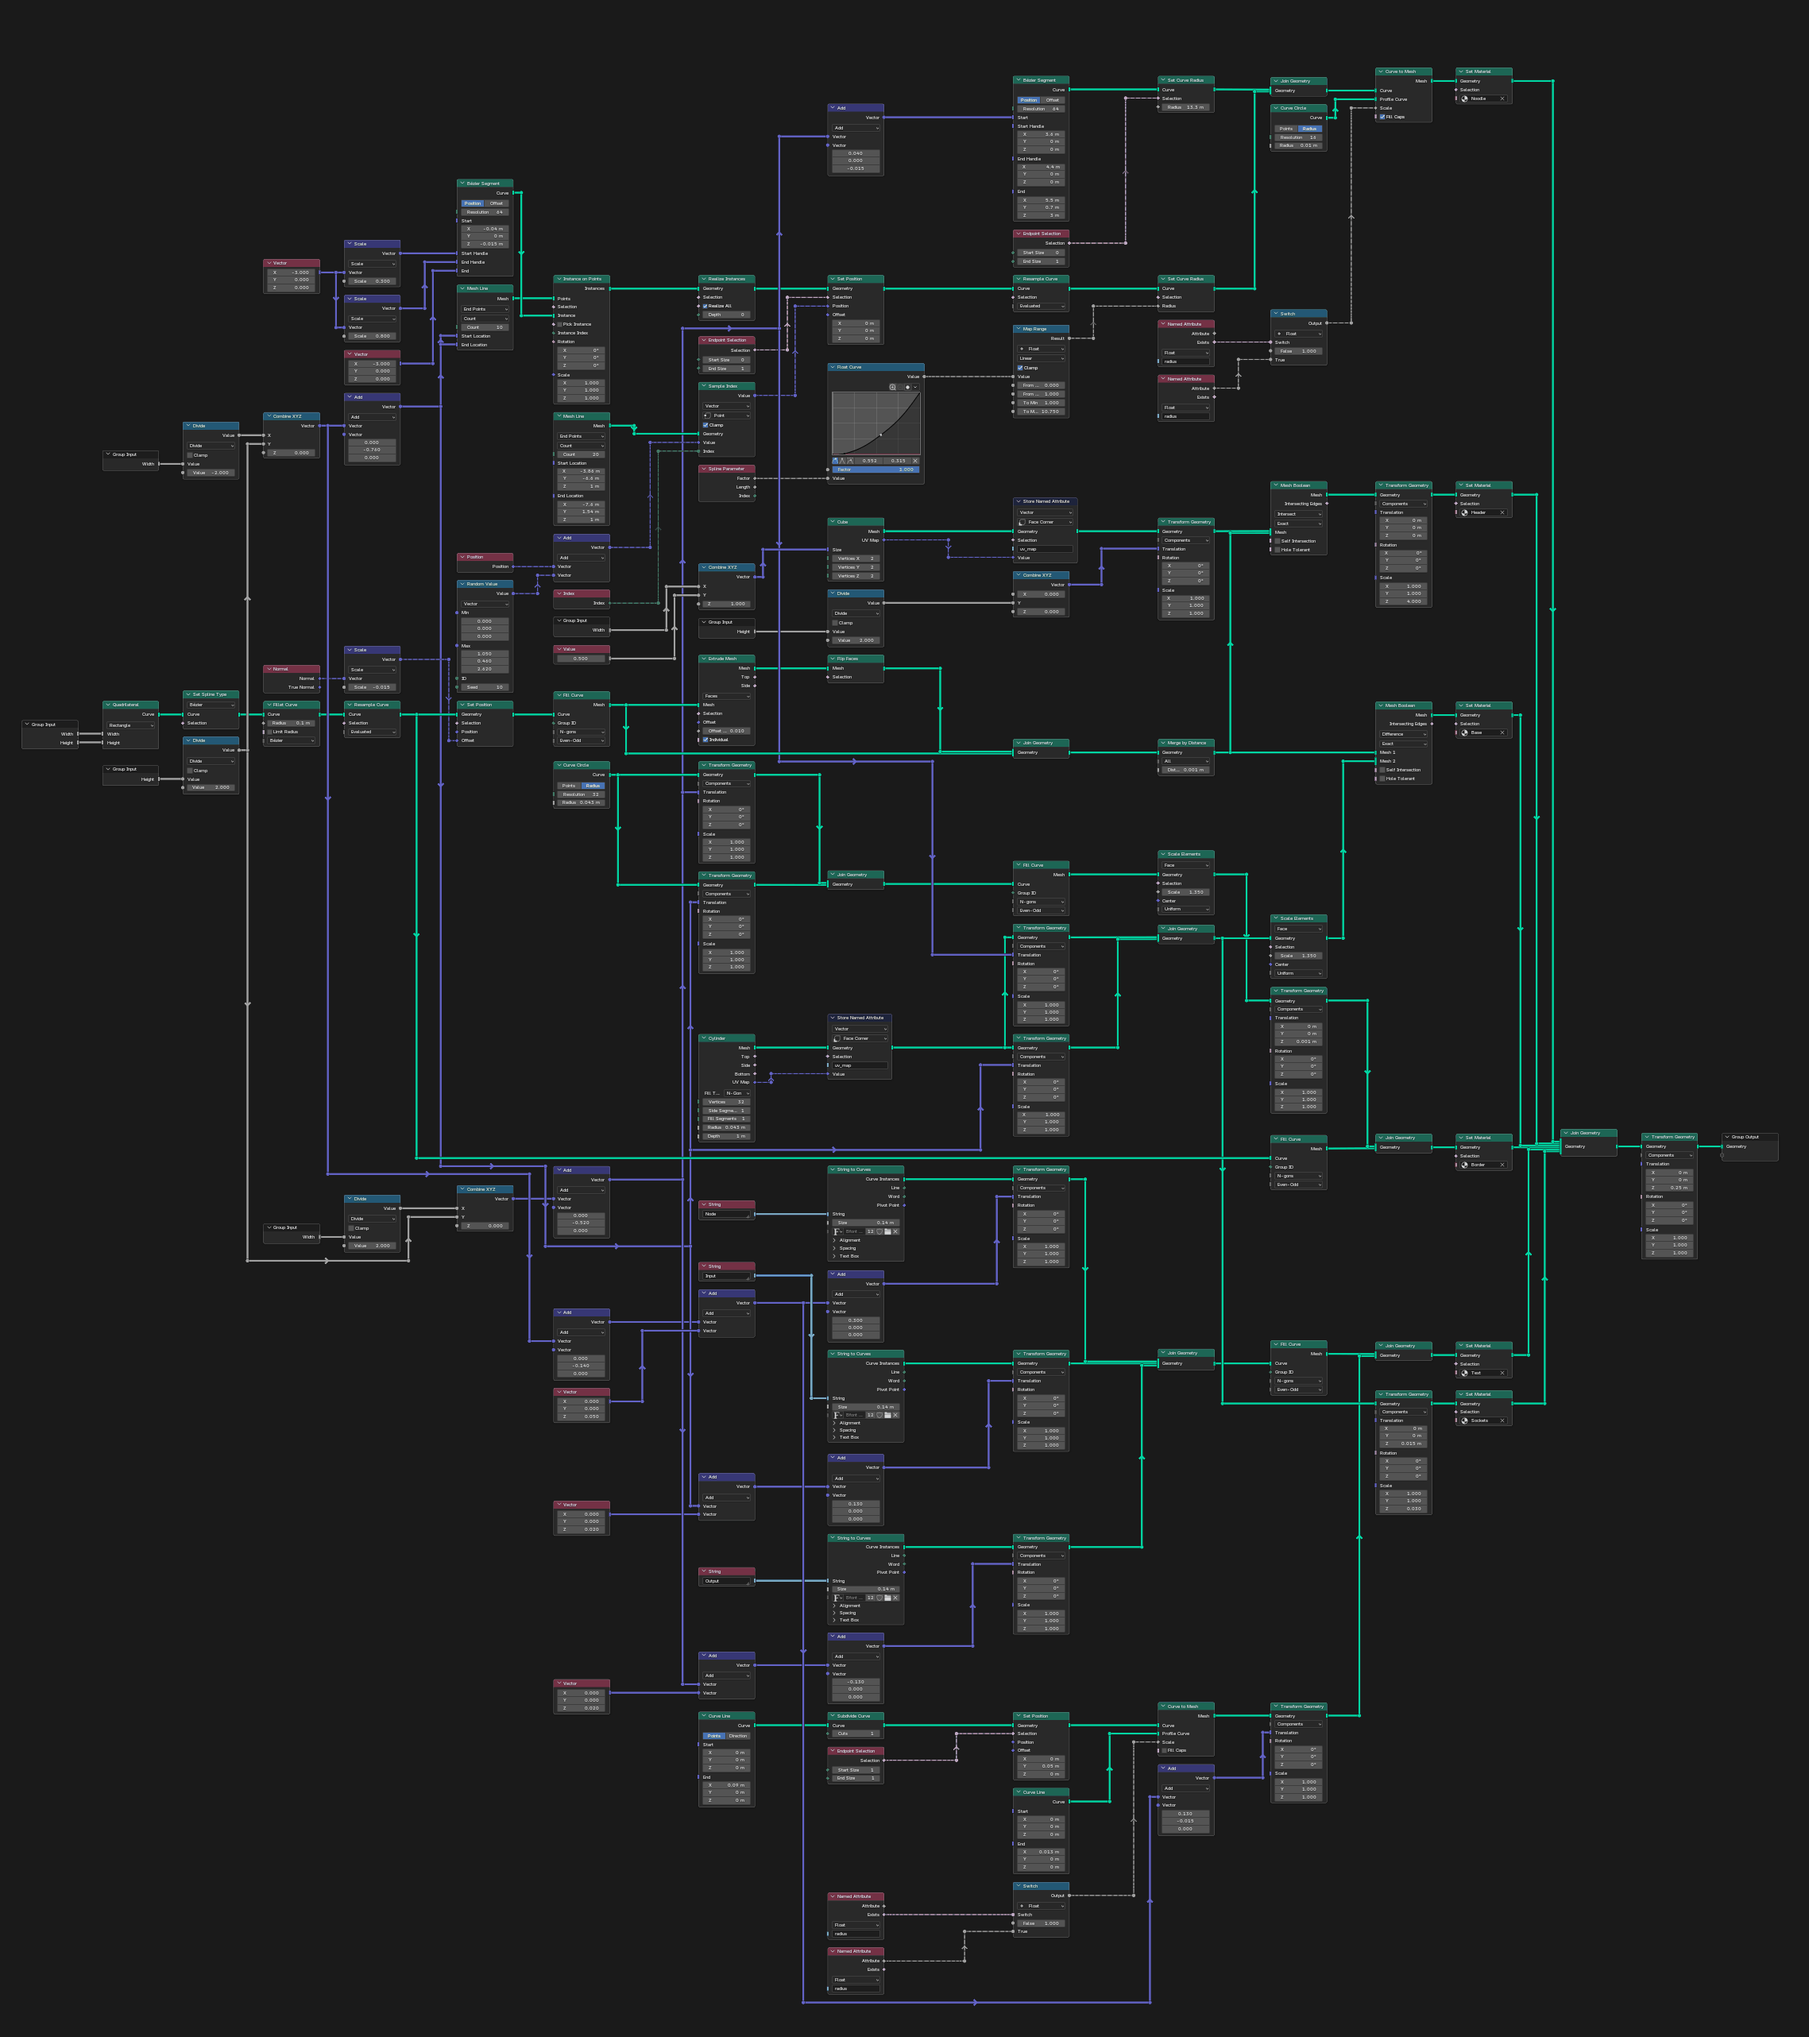
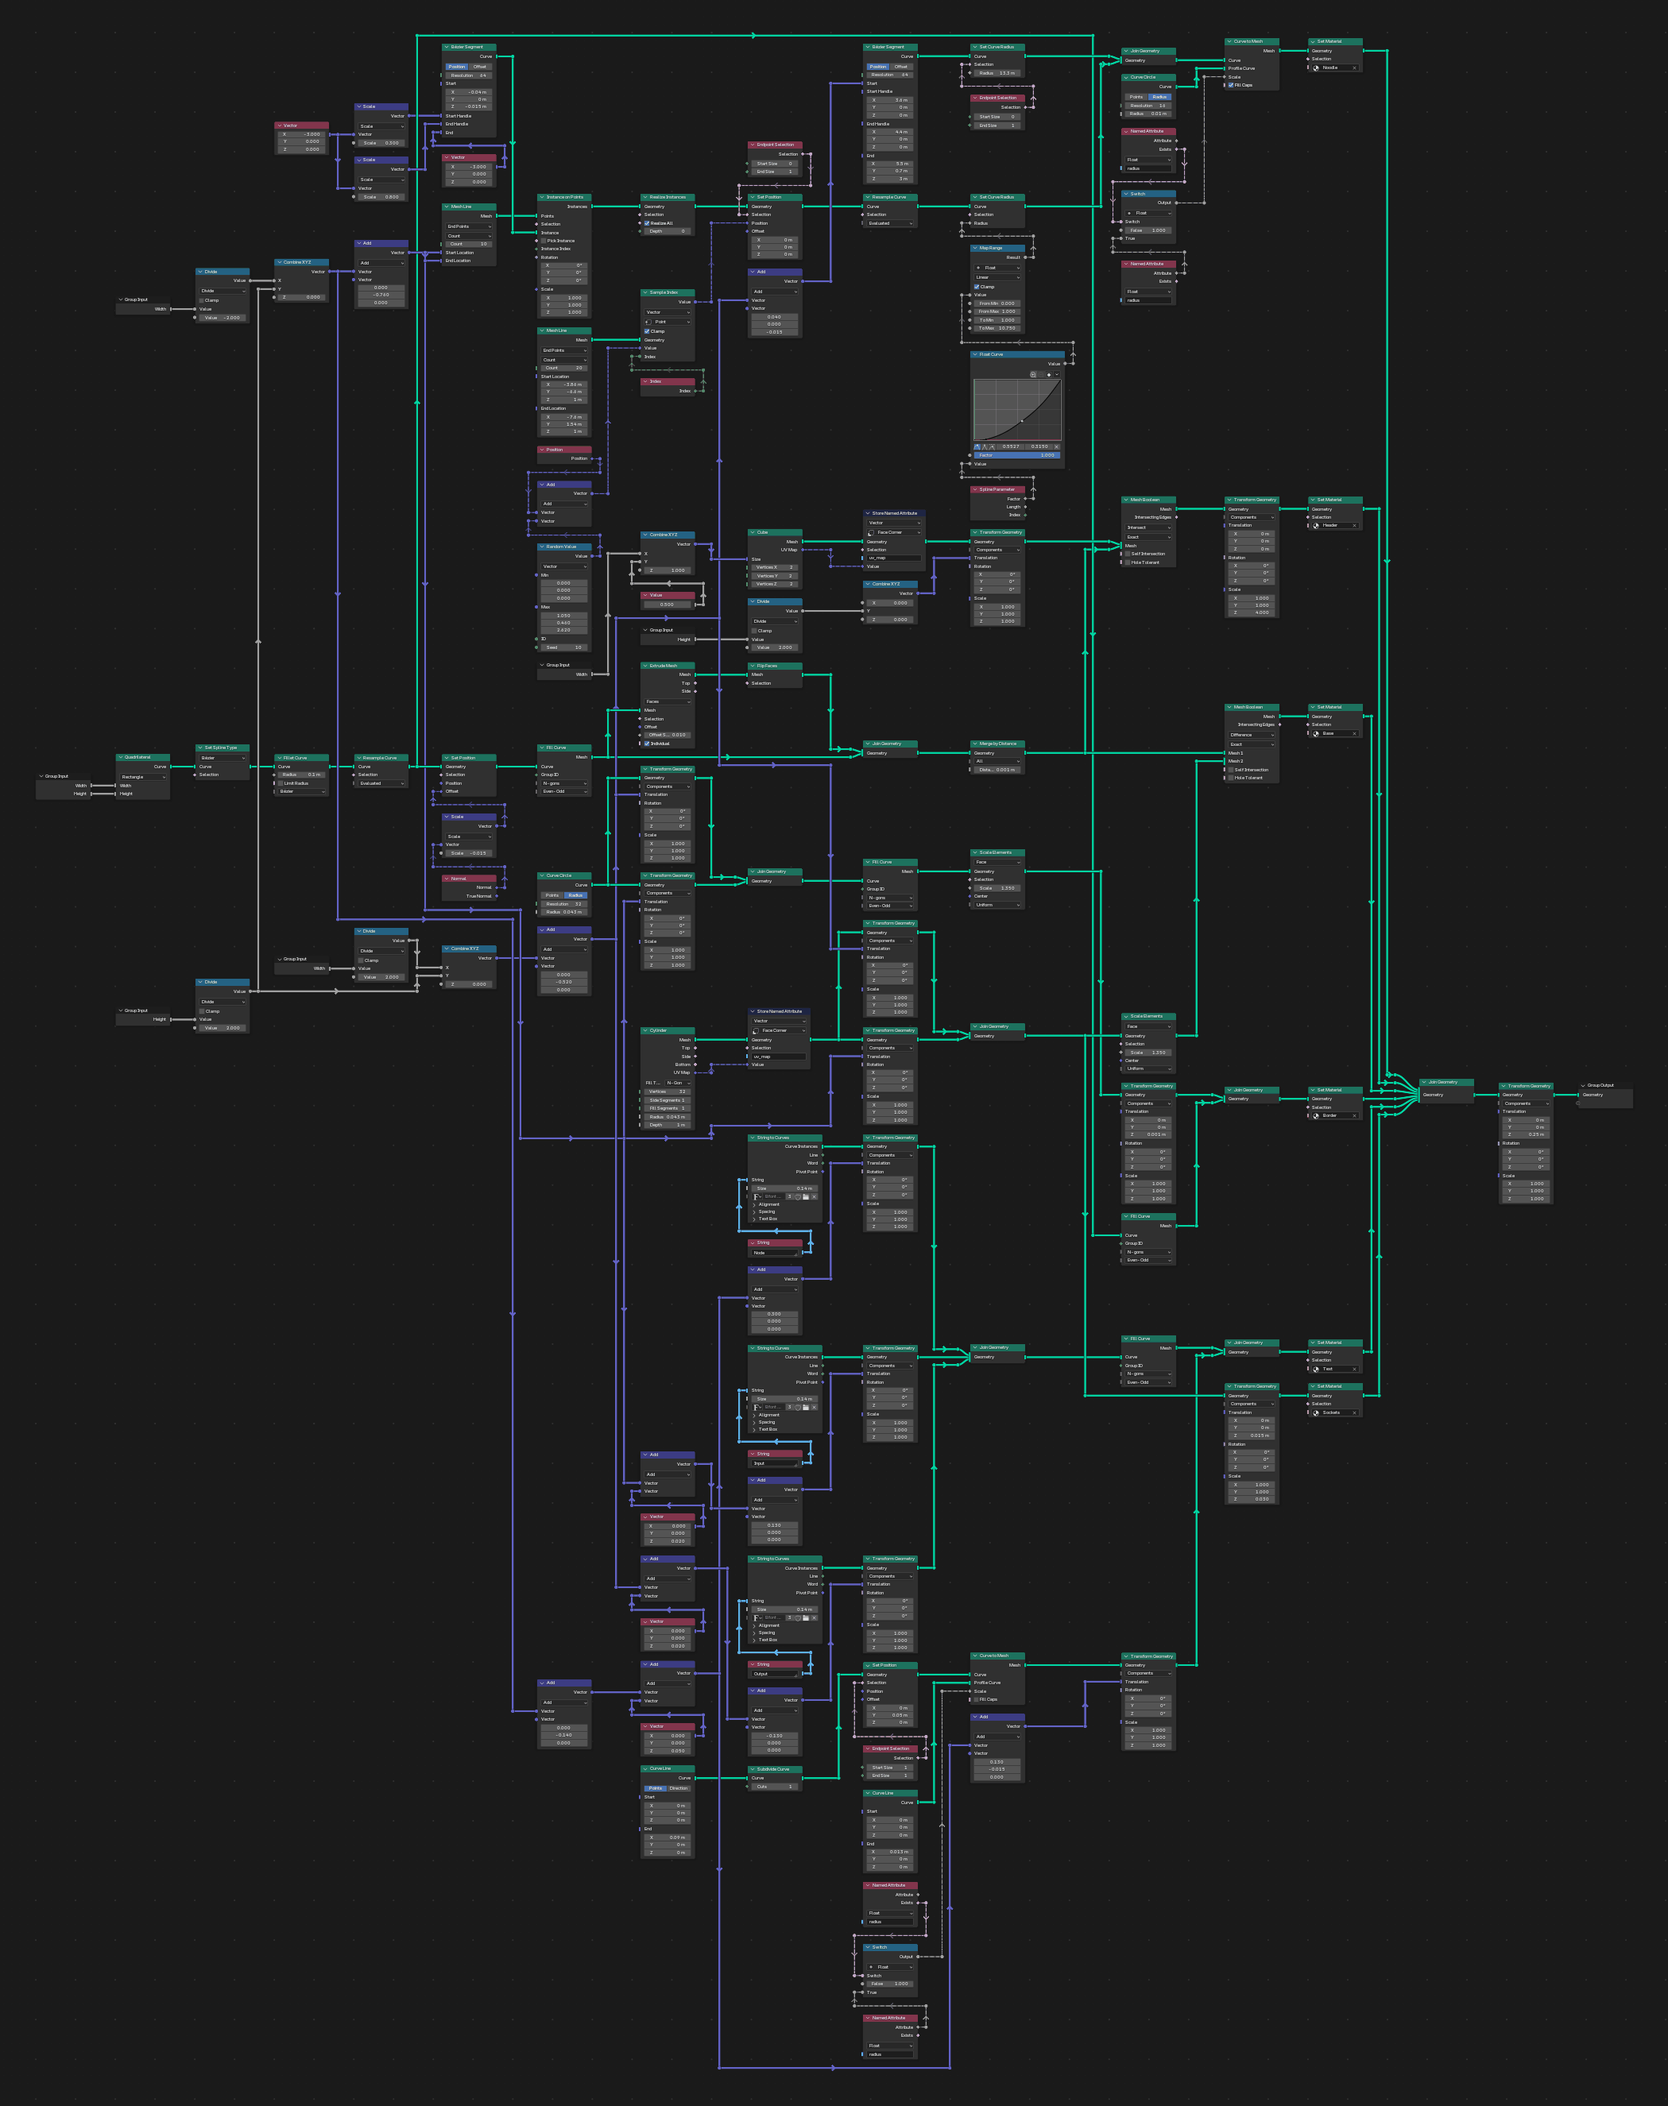
Example: the Stack Exchange tree sorted with the current version

Changed region(s): [[0.031, 0.0, 0.96, 0.9984], [0.1239, 0.4368, 0.1548, 0.4992]]

diff --git a/docs/EXAMPLE.md b/docs/EXAMPLE.md
@@ -6,10 +6,10 @@ by [quellenform](https://blender.stackexchange.com/users/145249/quellenform): a 
 tangled Geometry Nodes tree ("GN.Psychologist" in its .blend file), whose answers collect advice
 on readable node trees.
 
-The tree has 115 nodes. It was opened in Blender 5.2 and sorted with Sort Current Tree, all rules
-on, at UI scale 1.4; the result has 264 nodes, most of them reroutes and copies of input nodes.
-The images were made with an earlier version, where the sort took about five minutes; the
-current one sorts it in about half a minute. Both images are captured at half zoom.
+The tree has 115 nodes. It was opened in Blender 5.2 and sorted with Sort Current Tree, every
+rule on, at UI scale 1.4: the sort takes about 30 seconds, and the result has 124 nodes (9 of
+them copies of input nodes) and 238 reroutes. Both images are captured with Capture Tree at half
+zoom.
 
 ## Before
 
